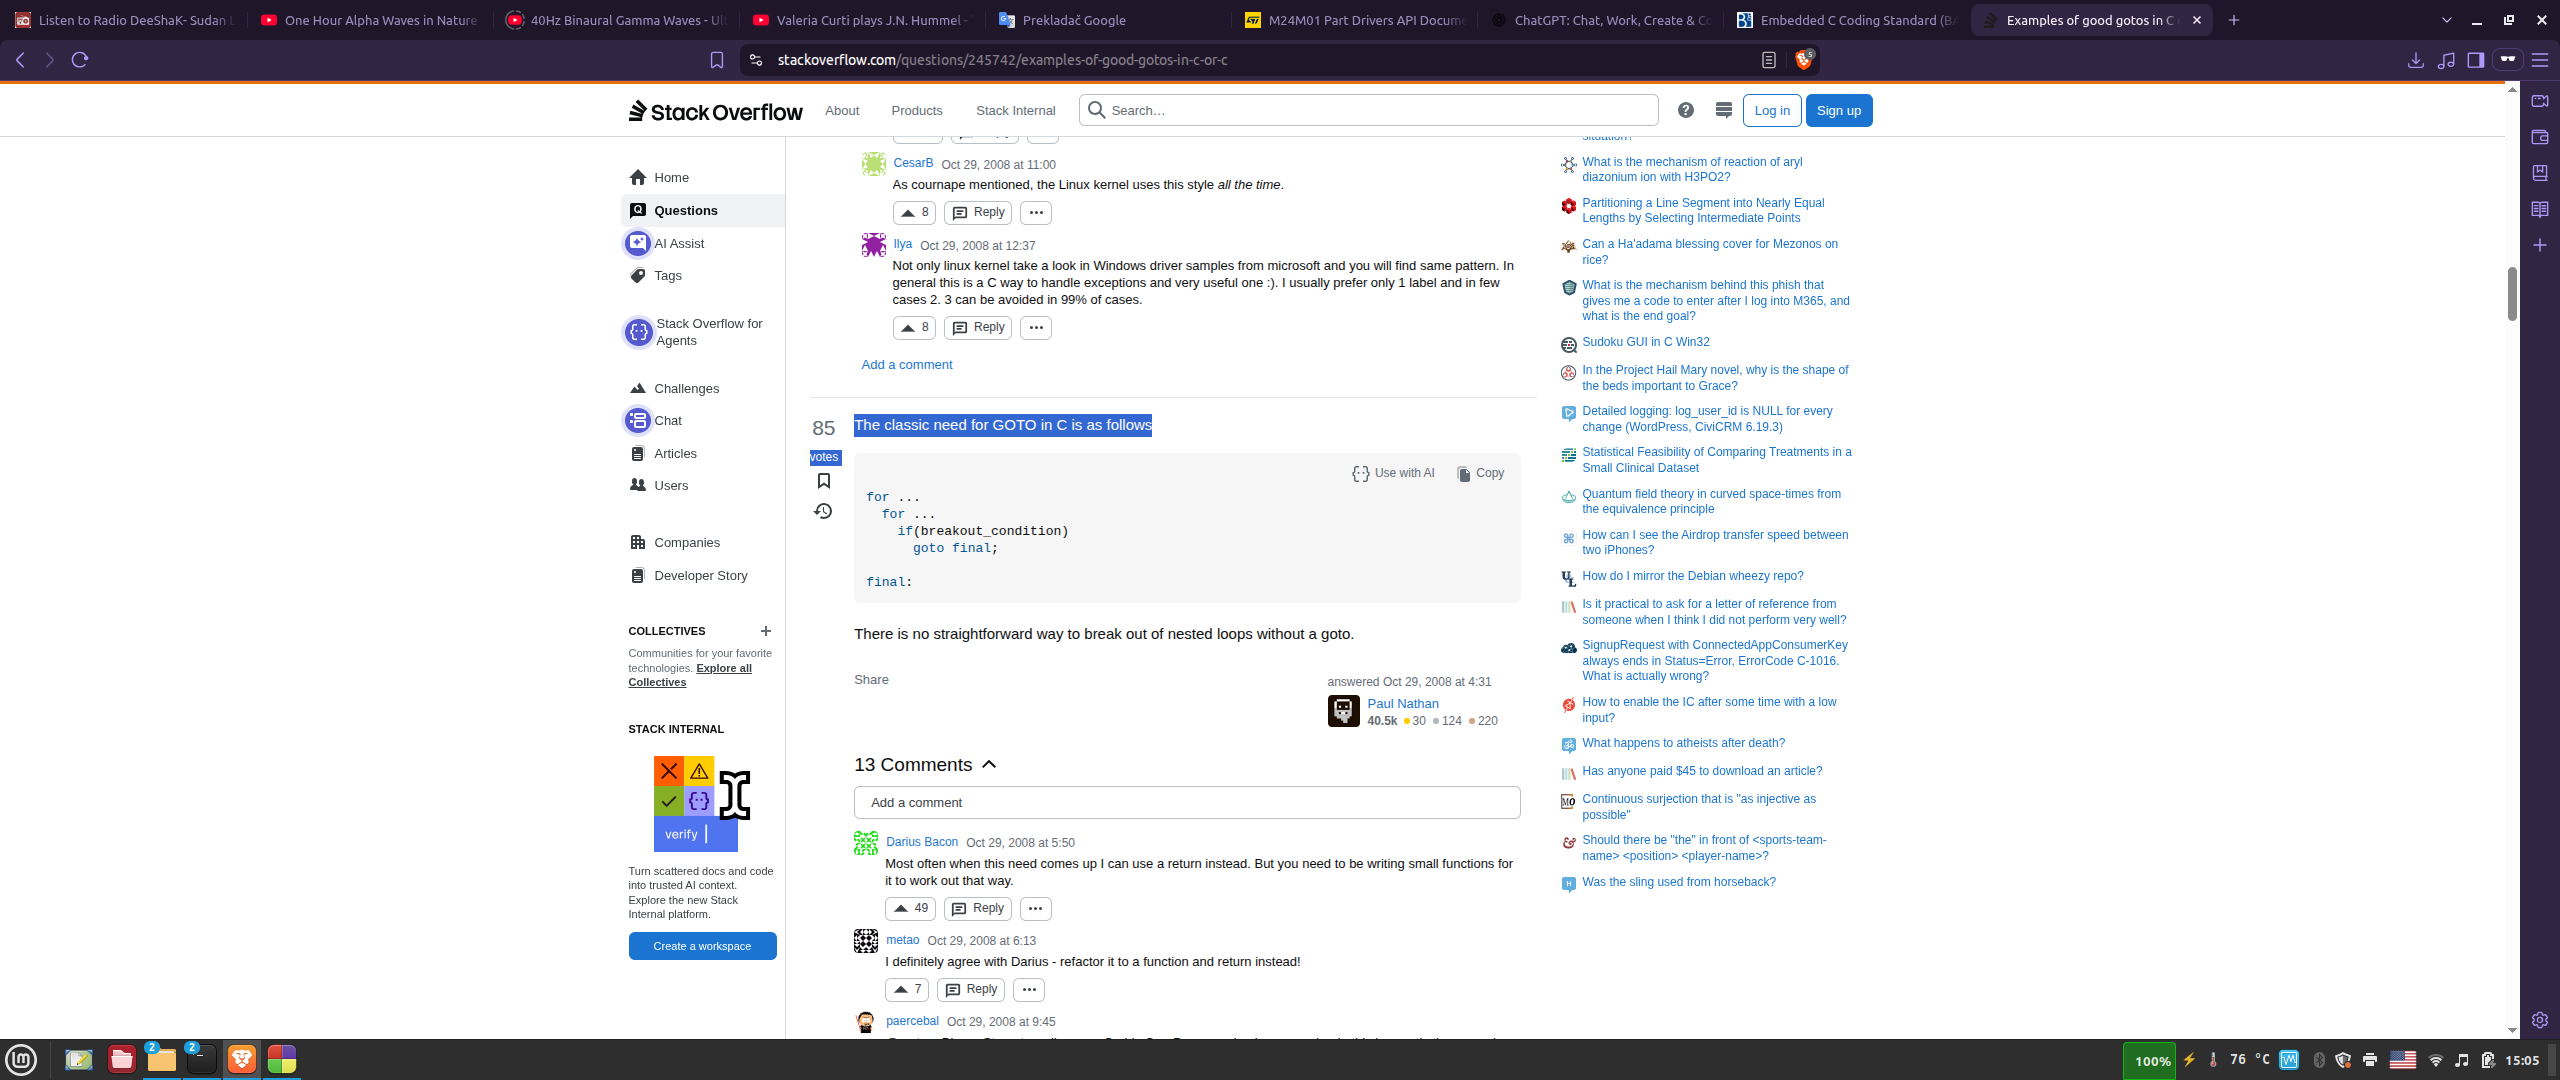
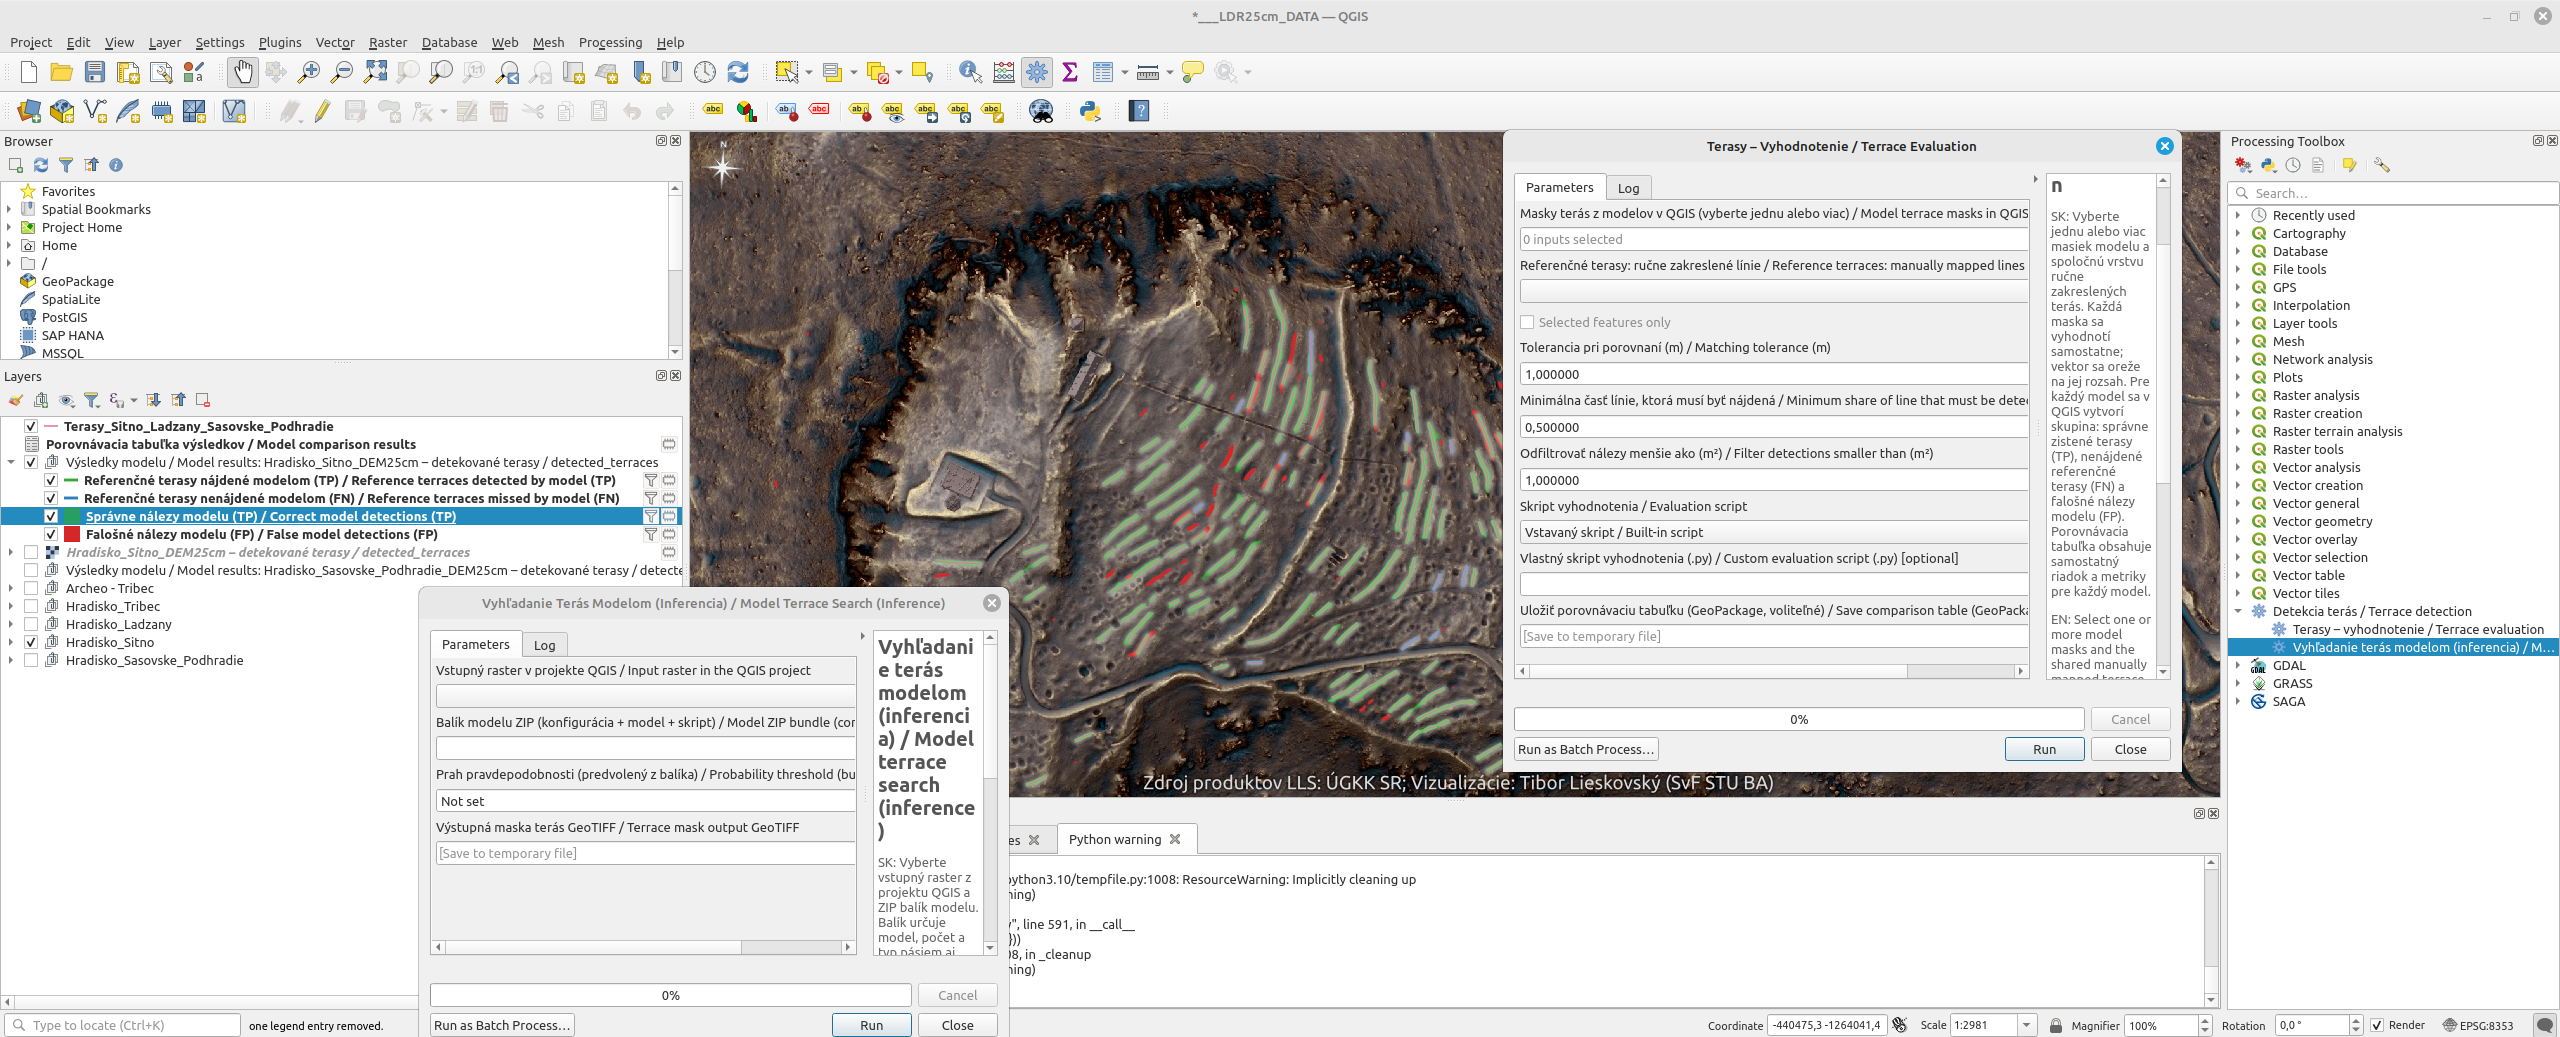
new models included

diff --git a/create_model_bundle.py b/create_model_bundle.py
@@ -12,14 +12,25 @@ from terasy_eval.model_config import validate_model_config
 PLUGIN_DIR = Path(__file__).resolve().parent
 
 
-def create_bundle(checkpoint_path, config_path, output_path):
+def create_bundle(checkpoint_path, config_path, output_path, runner_path=None, assets=None):
     checkpoint_path = Path(checkpoint_path).resolve()
     config_path = Path(config_path).resolve()
     output_path = Path(output_path).resolve()
+    runner_path = Path(runner_path).resolve() if runner_path else PLUGIN_DIR / "terasy_eval" / "model_runner.py"
+    assets = {name: Path(path).resolve() for name, path in (assets or {}).items()}
     config = json.loads(config_path.read_text(encoding="utf-8"))
     validate_model_config(config)
     if not checkpoint_path.is_file():
         raise FileNotFoundError(f"Checkpoint not found: {checkpoint_path}")
+    if not runner_path.is_file():
+        raise FileNotFoundError(f"Inference script not found: {runner_path}")
+    checkpoint_paths = {config["checkpoint"]: checkpoint_path}
+    for filename in config.get("additional_checkpoints", []):
+        if filename not in assets:
+            raise ValueError(f"Pass the additional checkpoint with --asset {filename}=PATH")
+        if not assets[filename].is_file():
+            raise FileNotFoundError(f"Checkpoint not found: {assets[filename]}")
+        checkpoint_paths[filename] = assets[filename]
     output_path.parent.mkdir(parents=True, exist_ok=True)
 
     descriptor, temporary_path = tempfile.mkstemp(suffix=".zip", dir=output_path.parent)
@@ -27,19 +38,17 @@ def create_bundle(checkpoint_path, config_path, output_path):
     try:
         with zipfile.ZipFile(temporary_path, "w", allowZip64=True) as bundle:
             bundle.writestr("config.json", json.dumps(config, ensure_ascii=False, indent=2) + "\n")
-            checkpoint_info = zipfile.ZipInfo(config["checkpoint"])
-            checkpoint_info.compress_type = zipfile.ZIP_STORED
-            with checkpoint_path.open("rb") as checkpoint, bundle.open(checkpoint_info, "w") as target:
-                while True:
-                    block = checkpoint.read(1024 * 1024)
-                    if not block:
-                        break
-                    target.write(block)
+            for filename, source_path in checkpoint_paths.items():
+                checkpoint_info = zipfile.ZipInfo(filename)
+                checkpoint_info.compress_type = zipfile.ZIP_STORED
+                with source_path.open("rb") as checkpoint, bundle.open(checkpoint_info, "w") as target:
+                    while True:
+                        block = checkpoint.read(1024 * 1024)
+                        if not block:
+                            break
+                        target.write(block)
 
-            bundle.write(
-                PLUGIN_DIR / "terasy_eval" / "model_runner.py",
-                config["inference_script"],
-            )
+            bundle.write(runner_path, config["inference_script"])
             bundle.writestr(
                 "README.txt",
                 "Model bundle for the QGIS plugin Detekcia teras / Terrace detection.\n"
@@ -61,8 +70,22 @@ def main():
     parser.add_argument("checkpoint", help="Path to the trained .pth file")
     parser.add_argument("config", help="Path to the model config JSON")
     parser.add_argument("output", help="Destination ZIP file")
+    parser.add_argument("--runner", help="Custom inference runner Python file")
+    parser.add_argument(
+        "--asset",
+        action="append",
+        default=[],
+        metavar="ARCHIVE_NAME=PATH",
+        help="Additional file to include (repeat for every additional checkpoint)",
+    )
     args = parser.parse_args()
-    create_bundle(args.checkpoint, args.config, args.output)
+    assets = {}
+    for item in args.asset:
+        name, separator, path = item.partition("=")
+        if not separator or not name or not path:
+            parser.error(f"Invalid --asset '{item}'; use ARCHIVE_NAME=PATH")
+        assets[name] = path
+    create_bundle(args.checkpoint, args.config, args.output, args.runner, assets)
     print(f"Model bundle created: {args.output}")
 
 

diff --git a/terasy_eval/model_config.py b/terasy_eval/model_config.py
@@ -48,6 +48,15 @@ def validate_model_config(config):
         filename = config.get(key)
         if not isinstance(filename, str) or not filename or os.path.basename(filename) != filename:
             raise ValueError(f"Neplatný názov súboru '{key}' v konfigurácii / Invalid '{key}' filename.")
+    additional_checkpoints = config.get("additional_checkpoints", [])
+    if not isinstance(additional_checkpoints, list) or any(
+        not isinstance(filename, str) or not filename or os.path.basename(filename) != filename
+        for filename in additional_checkpoints
+    ):
+        raise ValueError("Neplatný zoznam doplnkových checkpointov / Invalid additional checkpoint list.")
+    checkpoint_names = [config["checkpoint"], *additional_checkpoints]
+    if len(set(checkpoint_names)) != len(checkpoint_names) or config["inference_script"] in checkpoint_names:
+        raise ValueError("Názvy súborov v balíku sa nesmú opakovať / Bundle filenames must be unique.")
 
     return config
 
@@ -58,7 +67,12 @@ def read_model_bundle(bundle_path):
             config = json.loads(bundle.read("config.json").decode("utf-8"))
             validate_model_config(config)
             names = set(bundle.namelist())
-            for required_file in (config["checkpoint"], config["inference_script"]):
+            required_files = [
+                config["checkpoint"],
+                *config.get("additional_checkpoints", []),
+                config["inference_script"],
+            ]
+            for required_file in required_files:
                 if required_file not in names:
                     raise ValueError(f"V ZIP balíku chýba {required_file} / Missing {required_file} in model ZIP.")
     except (OSError, KeyError, UnicodeDecodeError, json.JSONDecodeError, zipfile.BadZipFile) as exc:
@@ -69,7 +83,12 @@ def read_model_bundle(bundle_path):
 def extract_model_bundle(bundle_path, destination):
     config = read_model_bundle(bundle_path)
     with zipfile.ZipFile(bundle_path) as bundle:
-        for filename in (config["checkpoint"], config["inference_script"]):
+        filenames = [
+            config["checkpoint"],
+            *config.get("additional_checkpoints", []),
+            config["inference_script"],
+        ]
+        for filename in filenames:
             destination_path = os.path.join(destination, filename)
             with bundle.open(filename) as source, open(destination_path, "wb") as target:
                 shutil.copyfileobj(source, target)

diff --git a/terasy_eval/algorithms/inferencia_algorithm.py b/terasy_eval/algorithms/inferencia_algorithm.py
@@ -230,6 +230,17 @@ class InferenciaTerasyAlgorithm(QgsProcessingAlgorithm):
             output = None
             source = None
 
+        postprocess_mask = getattr(runner, "postprocess_mask", None)
+        if callable(postprocess_mask):
+            feedback.pushInfo("SK / EN: Upravujem masku podľa filtra balíka / Applying bundle mask filter")
+            try:
+                postprocess_mask(model_config, source_path, output_path, feedback)
+            except Exception as exc:
+                raise QgsProcessingException(
+                    f"SK: Dodatočná úprava masky zlyhala: {exc} / "
+                    f"EN: Bundle post-processing failed: {exc}"
+                ) from exc
+
         if feedback.isCanceled():
             raise QgsProcessingException(
                 "SK: Výpočet bol zrušený; výstup môže byť neúplný. / "
